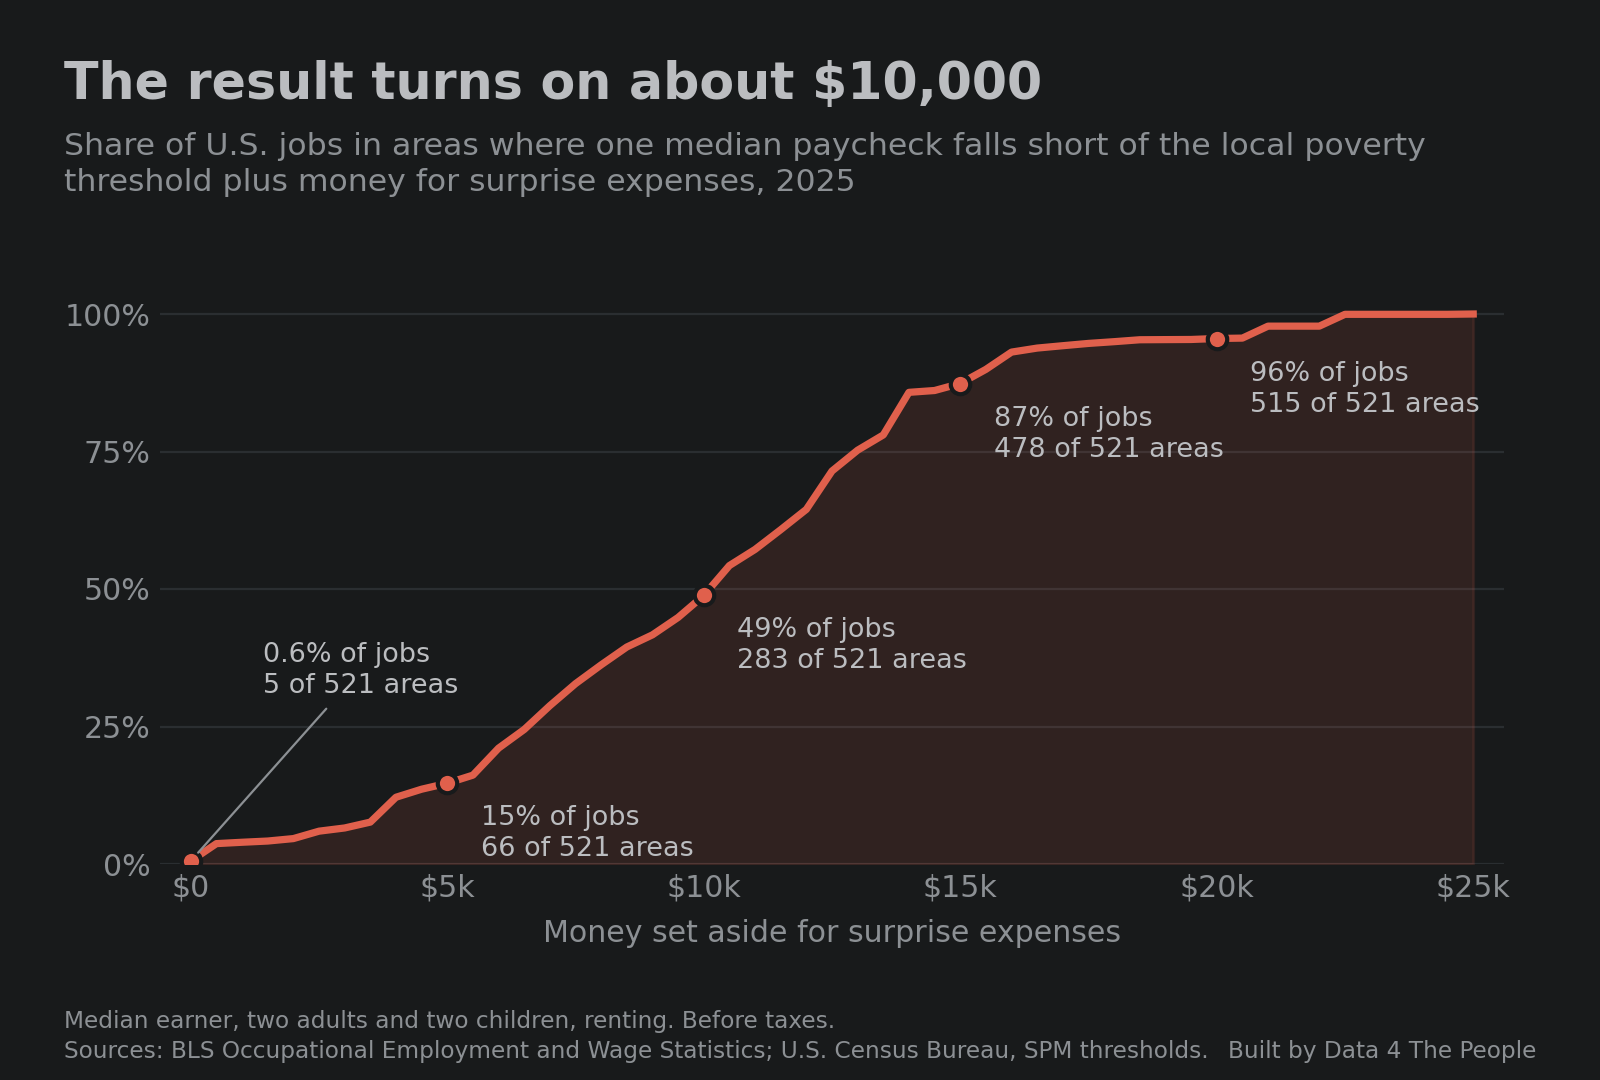
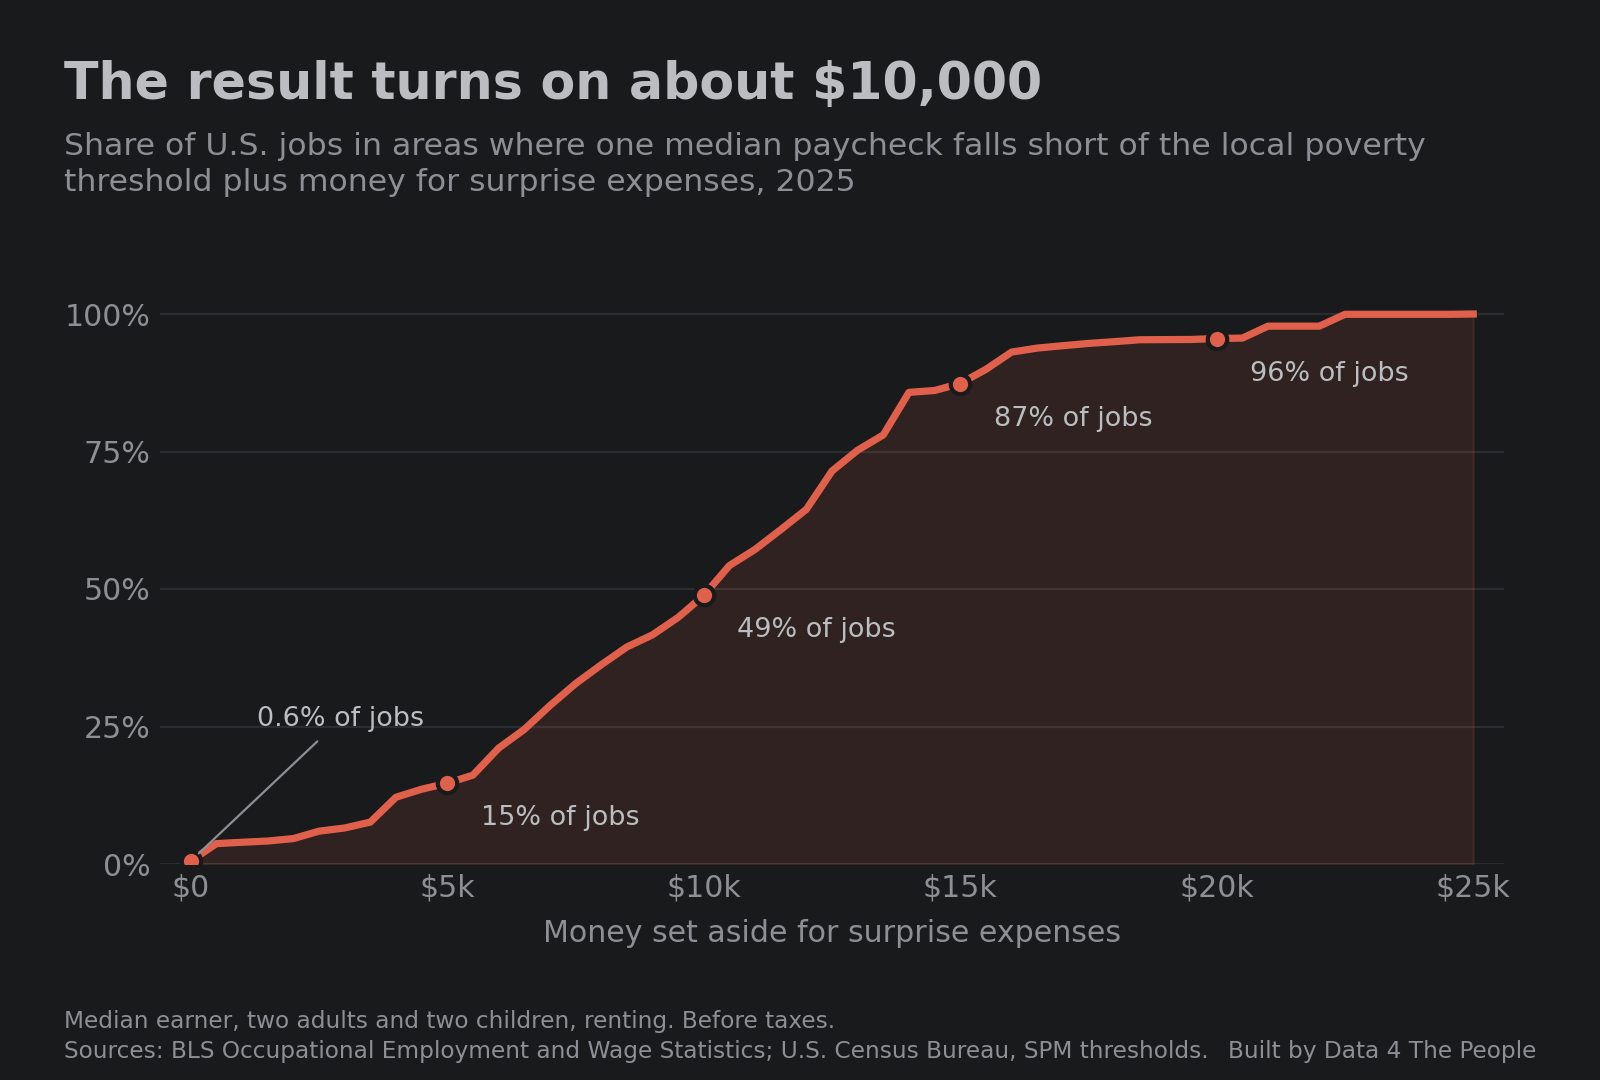
five-takeaways-single-income: chart 1 labels show share of jobs only

diff --git a/scripts/15_takeaways.py b/scripts/15_takeaways.py
@@ -234,9 +234,9 @@ def chart_cushion(N):
     for v in (0, 5000, 10000, 15000, 20000):
         p = next(q for q in c if q["cushion"] == v)
         ax.plot([v], [p["jobs_pct"]], "o", color=RED, ms=7, mec=BG, mew=1.5)
-        lab = (f"{p['jobs_pct']:.0f}%" if v else f"{p['jobs_pct']:.1f}%") + f" of jobs\n{p['areas']} of {N['areas']} areas"
+        lab = (f"{p['jobs_pct']:.0f}%" if v else f"{p['jobs_pct']:.1f}%") + " of jobs"
         if v == 0:                      # the curve leaves no room beside the first point: label it above, with a leader
-            ax.annotate(lab, (v, p["jobs_pct"]), (1400, 30), fontsize=7.2 * FS, linespacing=1.25, va="bottom",
+            ax.annotate(lab, (v, p["jobs_pct"]), (1300, 24), fontsize=7.2 * FS, linespacing=1.25, va="bottom",
                         arrowprops=dict(arrowstyle="-", color=MUTED, lw=0.8, shrinkB=4))
         else:                           # the other labels sit under the curve, to the right of their point
             ax.text(v + 650, p["jobs_pct"] - 4, lab, fontsize=7.2 * FS, ha="left", va="top", linespacing=1.25)

diff --git a/posts/five-takeaways-single-income/POST.md b/posts/five-takeaways-single-income/POST.md
@@ -34,7 +34,7 @@ One thing to know before reading it. Areas are not the same size. The New York a
 
 Along the bottom is the money set aside, from $0 to $25,000. The line is the share of all U.S. jobs that are in areas that have fallen short by that amount.
 
-![Line chart titled The result turns on about $10,000. The share of U.S. jobs in areas where one median paycheck falls short of the local poverty threshold plus money for surprise expenses, 2025, rises from 0.6% with nothing set aside to 15% at $5,000, 49% at $10,000, 87% at $15,000 and 96% at $20,000. At $10,000, one income falls short in 283 of 521 areas.](images/01-cushion-curve.png)
+![Line chart titled The result turns on about $10,000. The share of U.S. jobs in areas where one median paycheck falls short of the local poverty threshold plus money for surprise expenses, 2025, rises from 0.6% with nothing set aside to 15% at $5,000, 49% at $10,000, 87% at $15,000 and 96% at $20,000.](images/01-cushion-curve.png)
 
 Read it from left to right. With nothing set aside, 0.6% of jobs are in areas that fall short. At $5,000 it is 15%. At $10,000 it is 49%. At $15,000 it is 87%, and at $20,000 it is 96%.
 
